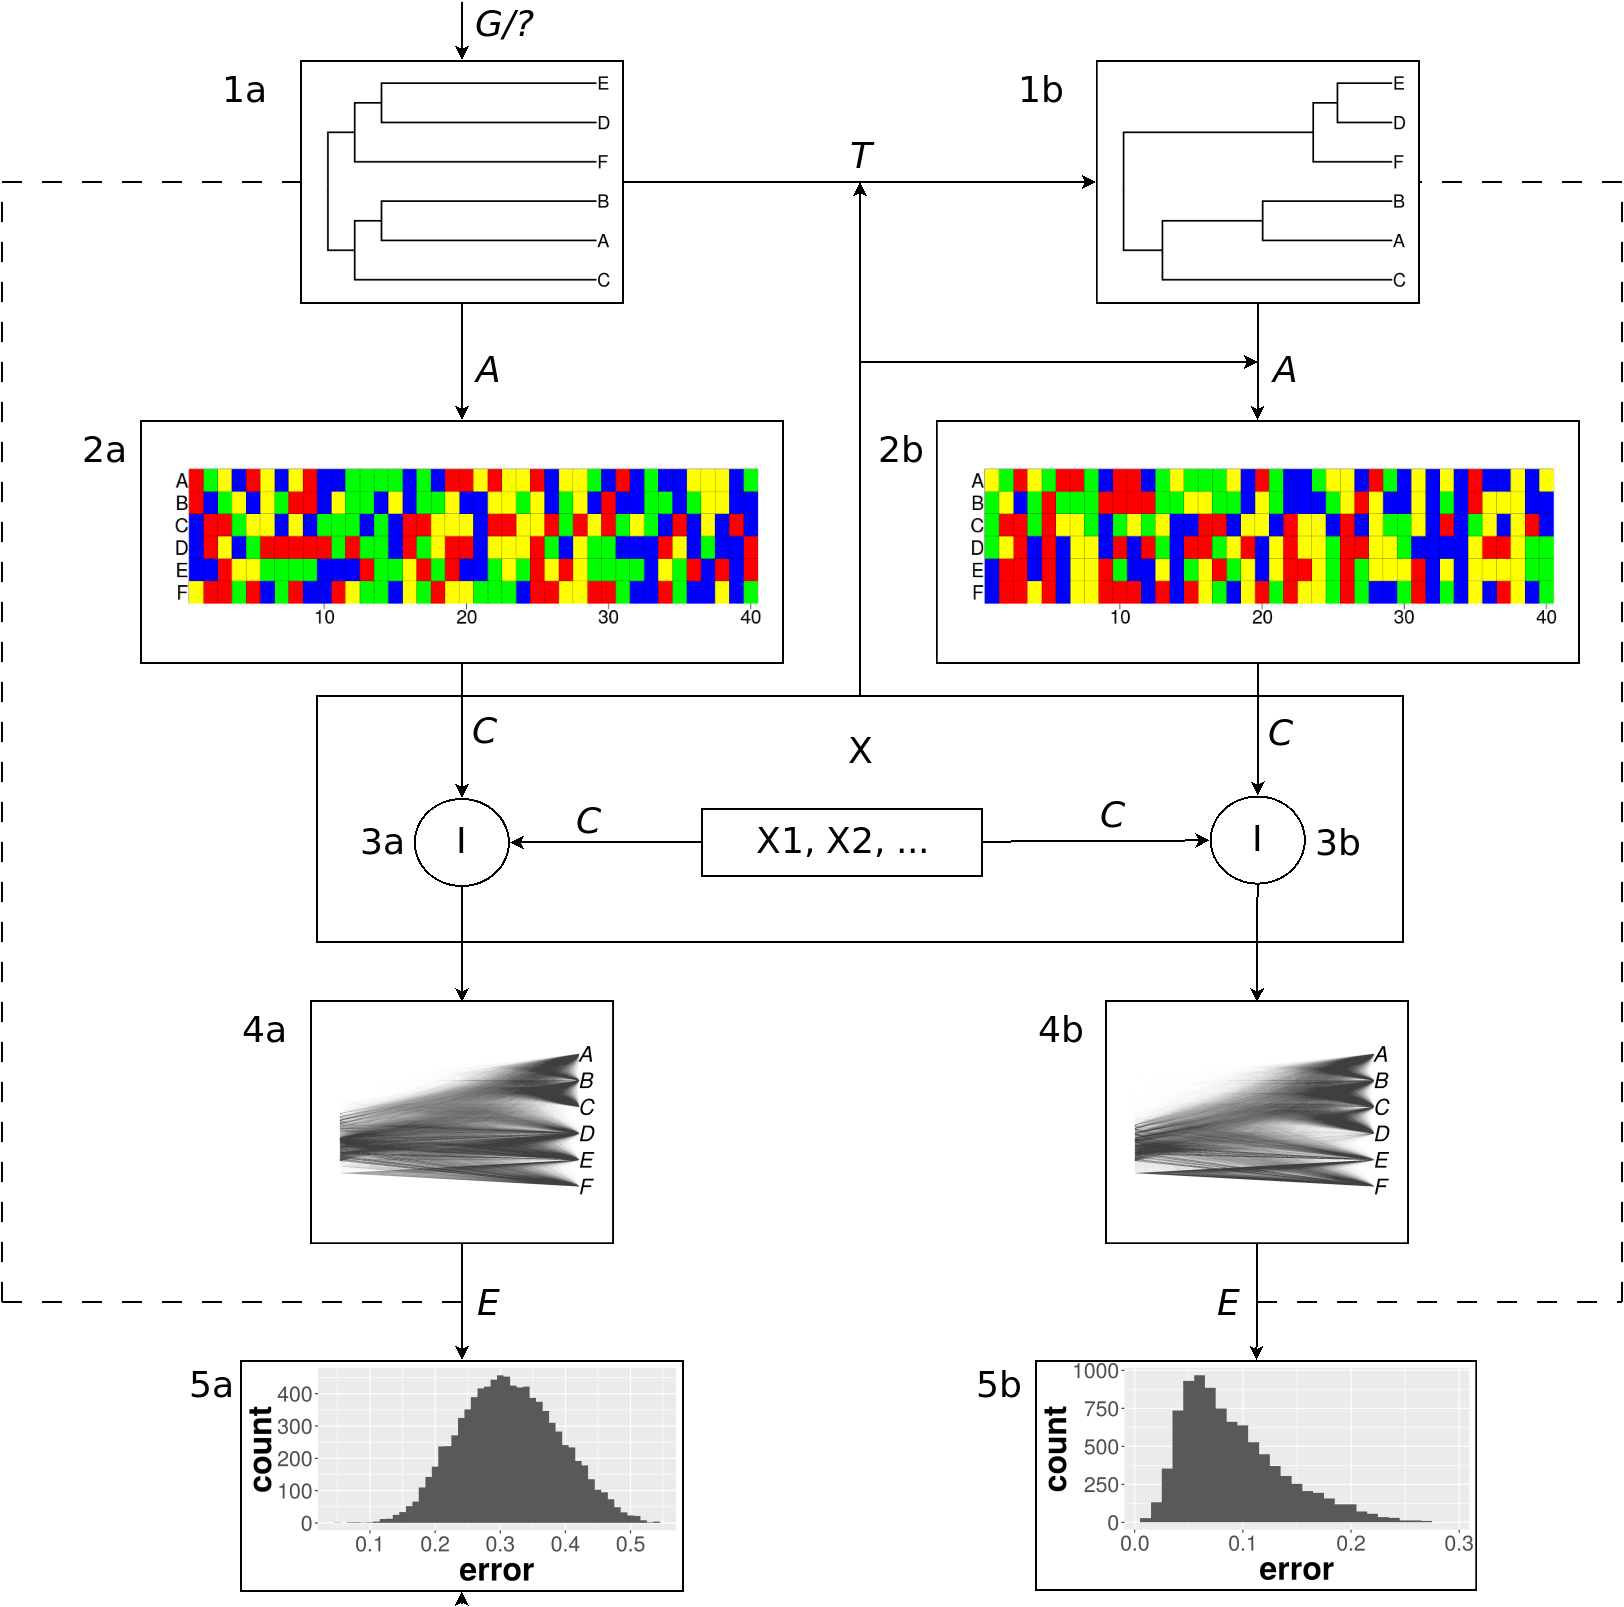
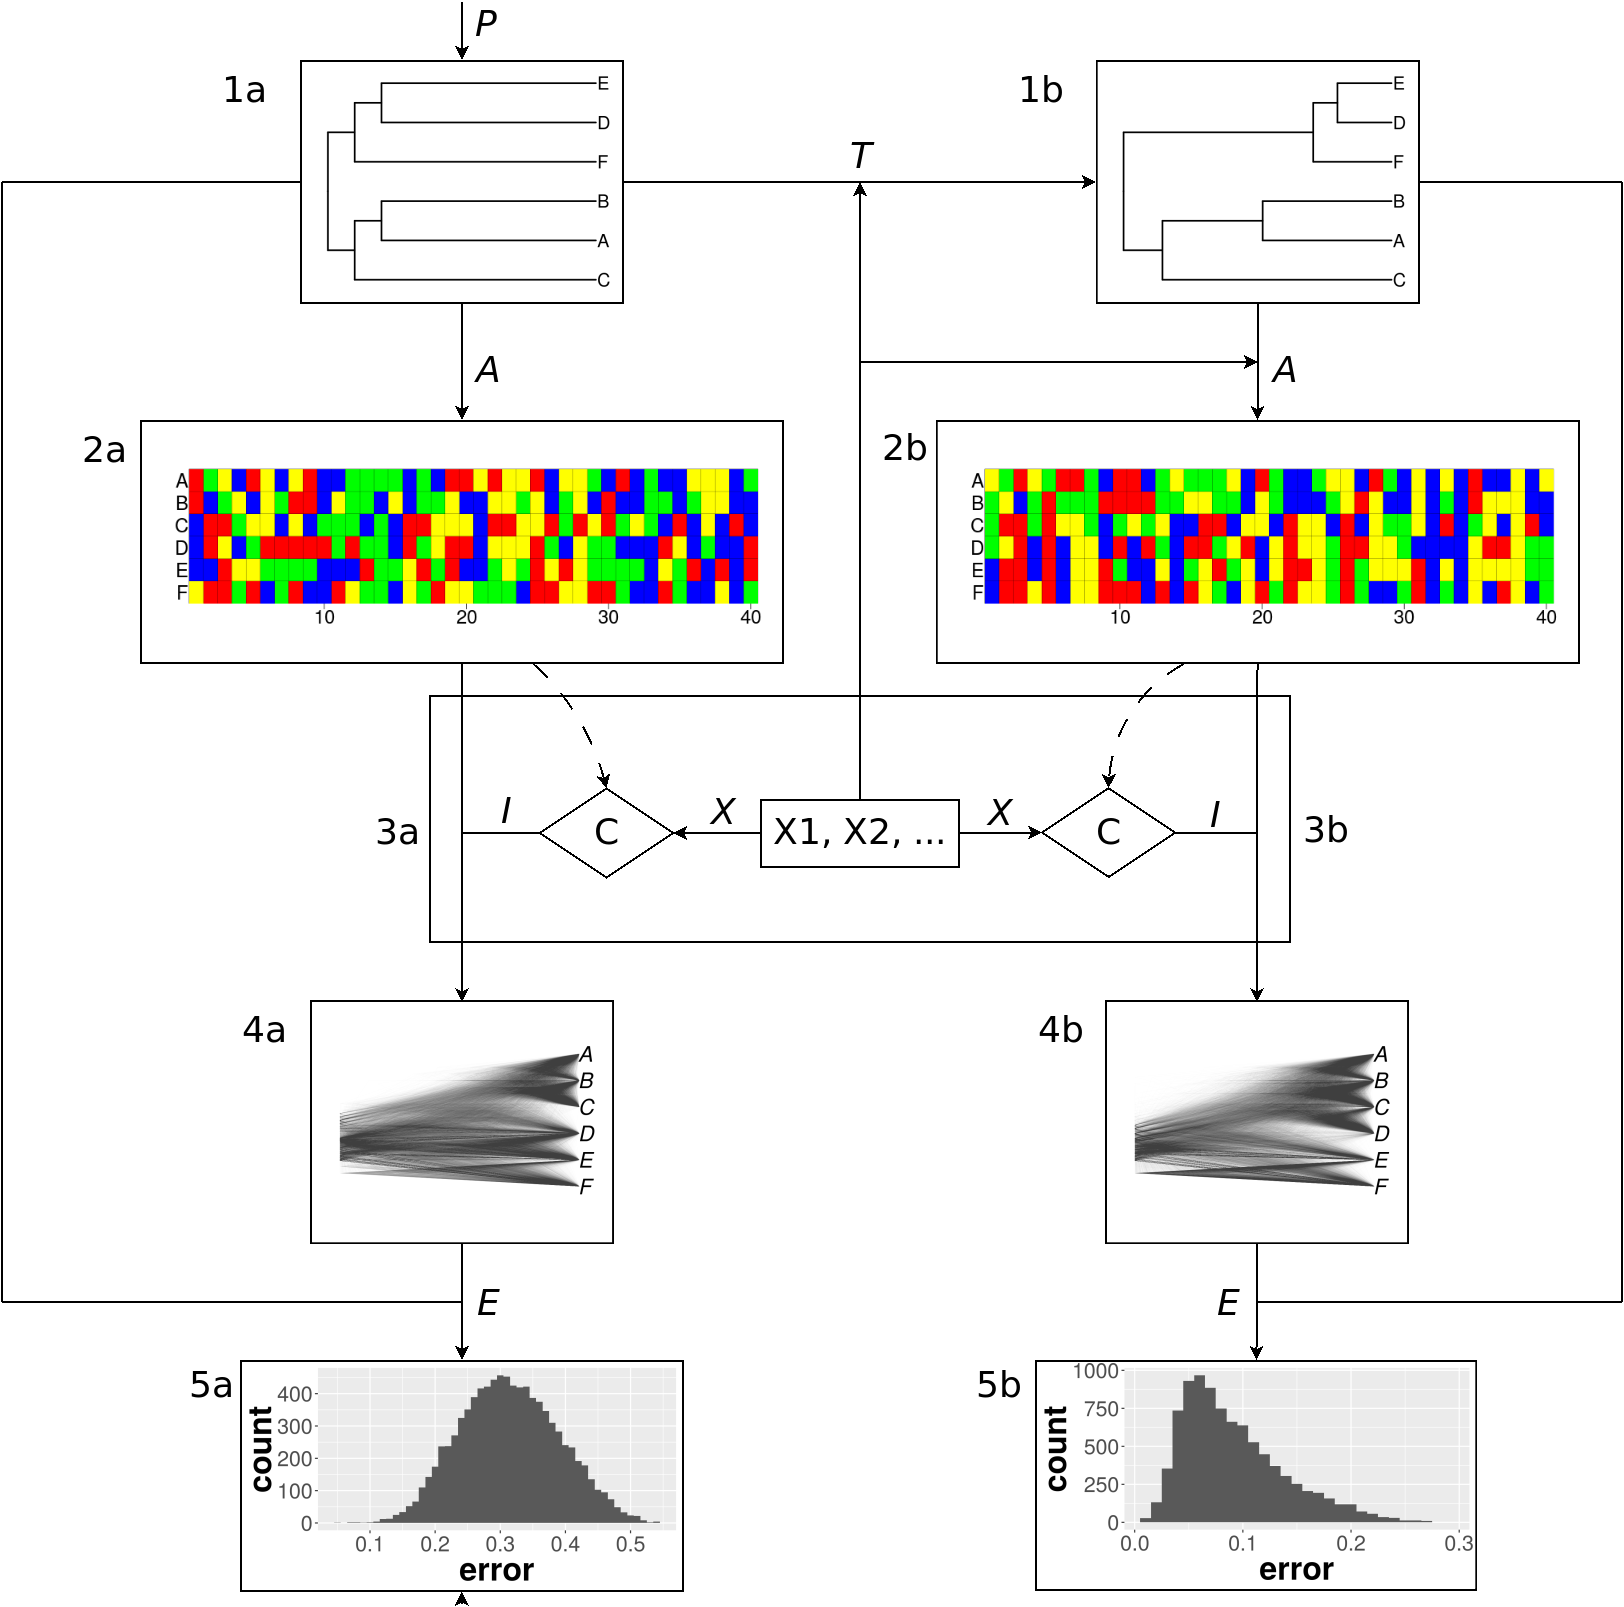
Improved worksflow figure

diff --git a/article.tex b/article.tex
@@ -416,18 +416,21 @@ For these ERQs we will quantify the importance of a tree prior.
     The pipeline starts from a phylogeny (1a) simulated by generative prior $\mathit{P}$.
     The phylogeny is converted to an alignment (2a) using alignment model $\mathit{A}$. 
     The user supplies one or more experiments.
-    For each experiment $\mathit{X}$ (a tuple of inference model $\mathit{I}$ and condition $\mathit{C}$),
-    the inference model $\mathit{I}$ is used in the next step (3a),
-    if the condition $\mathit{C}$ are satisfied.
-    The condition $\mathit{C}$ can depend on the alignment (2a).
+    For each experiment $\mathit{X}$ 
+    (a tuple of inference model $\mathit{I}$ and condition $\mathit{C}$),
+    if its condition $\mathit{C}$ is 
+    satisfied (which can depend on the alignment), 
+    its inference model $\mathit{I}$ is used in the next step (3a).
     The allowed inference models use the alignment (2a) 
     to create a BEAST2 posterior of (parameter estimates and) phylogenies (4a). 
     Each of the posteriors' trees is compared to the true phylogeny (1a) 
     using error measure $\mathit{E}$, 
     resulting in an error distribution (5a). 
     Optionally, a twin phylogeny (1b) can be generated from the original 
-    phylogeny (1a), which then results in an error distribution (5b) 
-    with similar intermediate steps.
+    phylogeny (1a) using twinning parameters $T$, where $T$ may depend on
+    the experiments \richel{improve}.
+    From a twin phylogeny, the same intermediate steps are taken,
+    resulting in a twin error distribution (5b)
   }
   \label{fig:pipeline}
 \end{figure}
